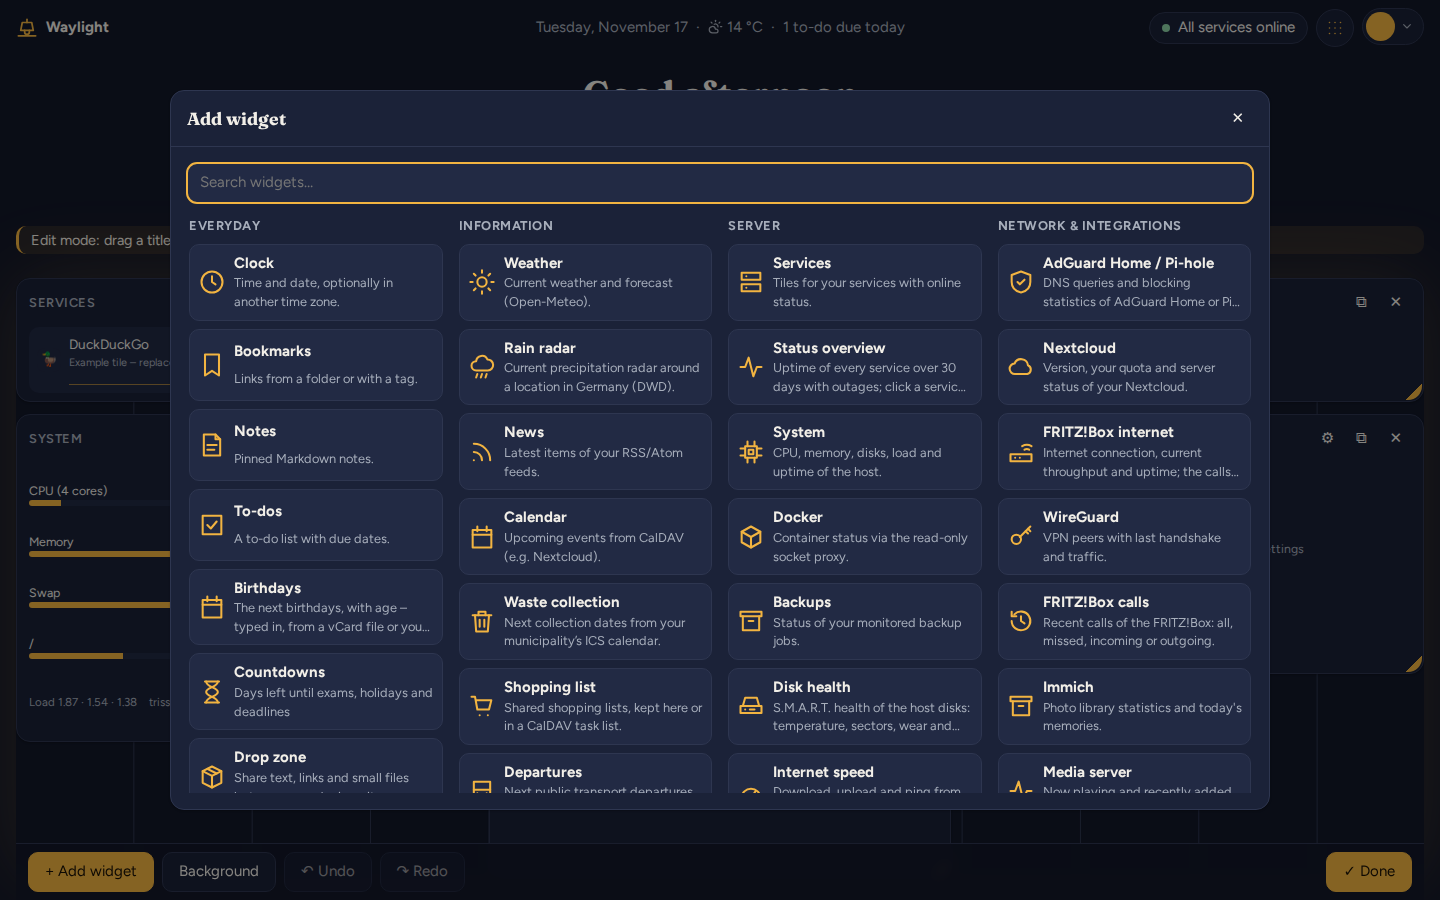
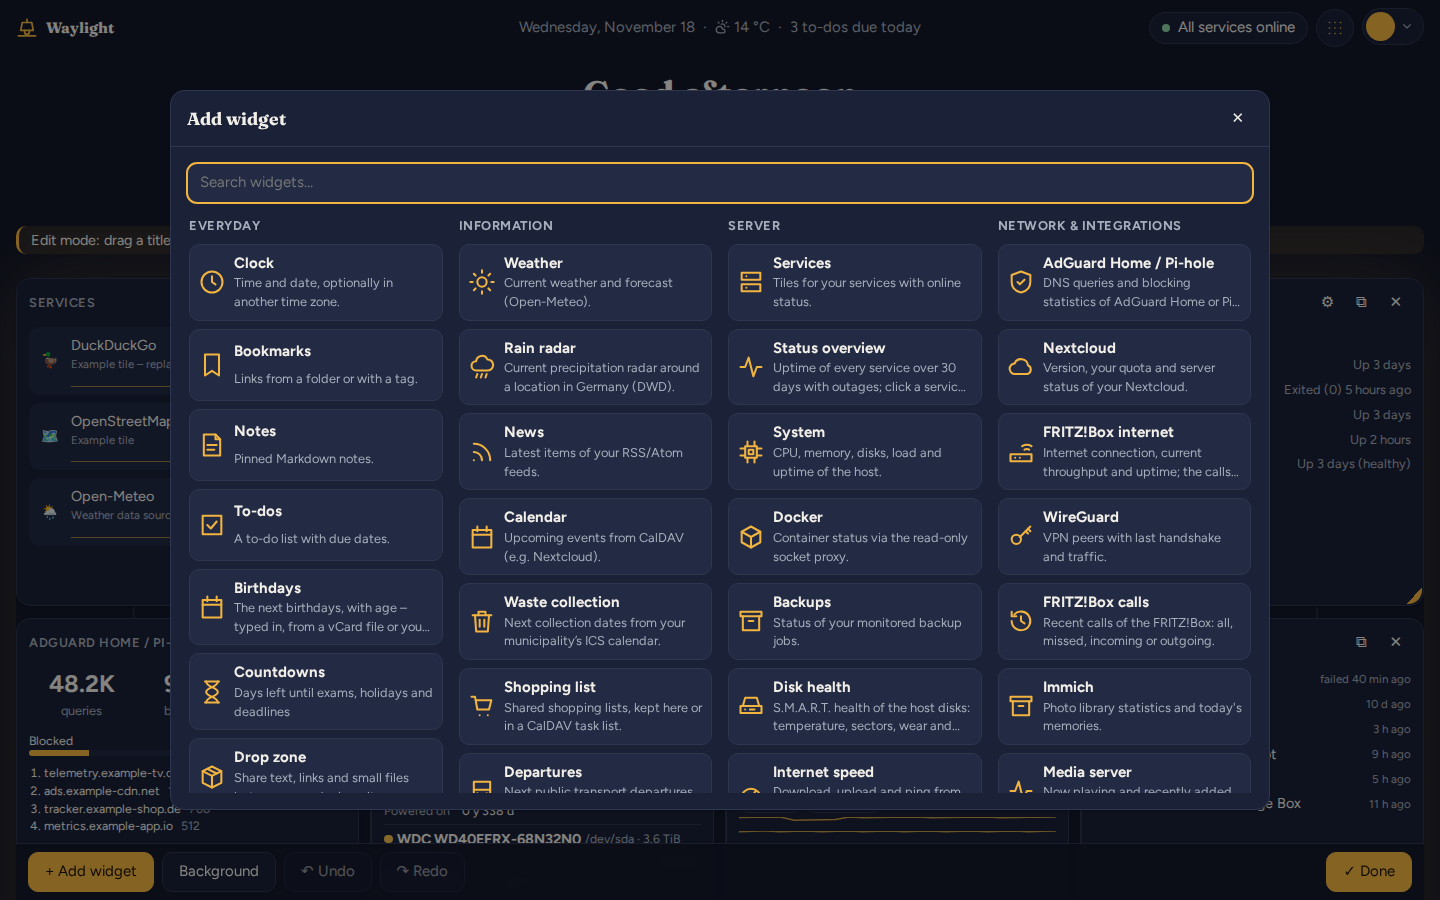
fix(screenshots): wait for the demo's sign-in page; pictures of the showcase (#556)
A fresh demo seeds its showcase before it answers, so the run waits for
the sign-in page or the dashboard instead of a fixed five seconds. The
server tab shows the CPU line twice now (system and Proxmox). The README
and docs pictures show the showcase.

diff --git a/web/e2e/screenshots/screenshots.spec.ts b/web/e2e/screenshots/screenshots.spec.ts
@@ -14,8 +14,12 @@ const variants = [
 async function openDashboard(page: Page) {
   await page.goto('/');
   // The demo opens on the sign-in page with its password shown (#539).
+  // A fresh demo seeds its showcase before it answers, so wait for either
+  // screen instead of guessing a delay.
   const fill = page.getByRole('button', { name: 'Fill in password' });
-  if (await fill.isVisible({ timeout: 5_000 }).catch(() => false)) {
+  const search = page.getByRole('combobox', { name: /Quick search/ });
+  await expect(fill.or(search)).toBeVisible({ timeout: 60_000 });
+  if (await fill.isVisible()) {
     await fill.click();
     await page.getByRole('button', { name: 'Log in' }).click();
   }
@@ -46,7 +50,7 @@ for (const v of variants) {
     });
     if (v.name.startsWith('desktop')) {
       await page.getByRole('button', { name: 'Server', exact: true }).click();
-      await expect(page.getByText(/CPU \(\d+ cores\)/)).toBeVisible({ timeout: 15_000 });
+      await expect(page.getByText(/CPU \(\d+ cores\)/).first()).toBeVisible({ timeout: 15_000 });
       await settle(page);
       await page.screenshot({ path: `${outDir}/server-${v.name}.png`, fullPage: true });
       // Widget picker (#104).
